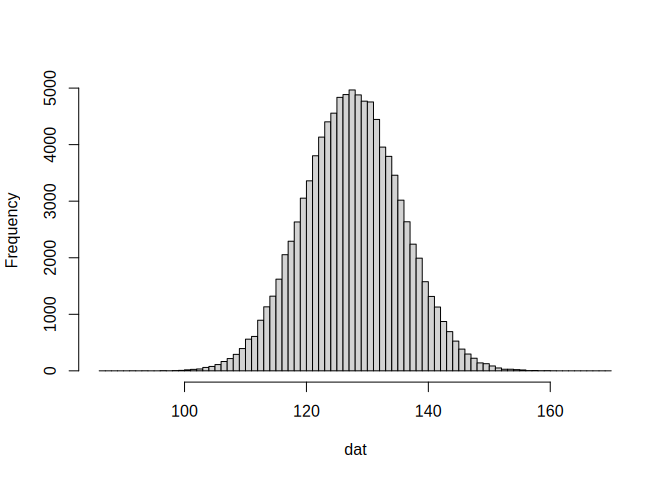
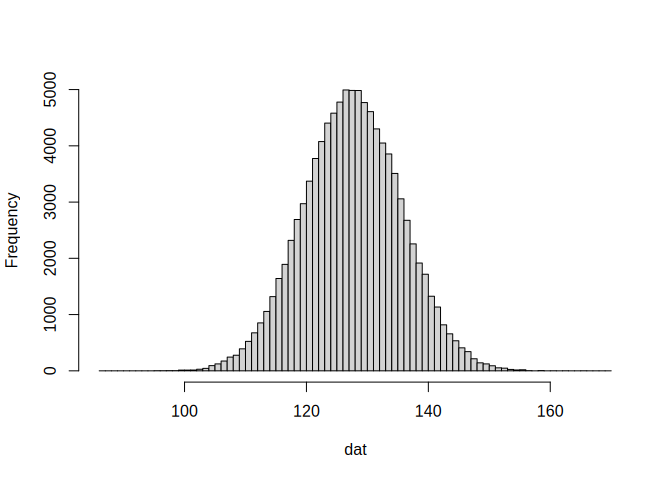
Update mixing algorithm to mix32 instead of a modified mix64.

diff --git a/src/ironseed.c b/src/ironseed.c
@@ -91,10 +91,12 @@ static inline uint64_t init_hash4o_coef(void) { return PRIME_C; }
 
 static inline uint64_t hash4o_coef(uint64_t *m) { return *m += PRIME_D; }
 
+// Adapted from mix32 of Java's SplittableRandom algorithm
+// This is variant 4 of Stafford's mixing algorithms.
+// http://zimbry.blogspot.com/2011/09/better-bit-mixing-improving-on.html
 static inline uint32_t finalmix(uint64_t u) {
-  // Final mixing adapted from splitmix64
-  u = (u ^ (u >> 30)) * 0xbf58476d1ce4e5b9;
-  u = (u ^ (u >> 27)) * 0x94d049bb133111eb;
+  u = (u ^ (u >> 33)) * 0x62a9d9ed799705f5;
+  u = (u ^ (u >> 28)) * 0xcb24d0a5c88c35b3;
   return u >> 32;
 }
 

diff --git a/tools/ironseed-bin/ironseed-bin.c b/tools/ironseed-bin/ironseed-bin.c
@@ -62,10 +62,12 @@ static inline uint64_t init_hash4o_coef(void) { return PRIME_C; }
 
 static inline uint64_t hash4o_coef(uint64_t *m) { return *m += PRIME_D; }
 
+// Adapted from mix32 of Java's SplittableRandom algorithm
+// This is variant 4 of Stafford's mixing algorithms.
+// http://zimbry.blogspot.com/2011/09/better-bit-mixing-improving-on.html
 static inline uint32_t finalmix(uint64_t u) {
-  // Final mixing adapted from splitmix64
-  u = (u ^ (u >> 30)) * 0xbf58476d1ce4e5b9;
-  u = (u ^ (u >> 27)) * 0x94d049bb133111eb;
+  u = (u ^ (u >> 33)) * 0x62a9d9ed799705f5;
+  u = (u ^ (u >> 28)) * 0xcb24d0a5c88c35b3;
   return u >> 32;
 }
 

diff --git a/README.md b/README.md
@@ -66,10 +66,10 @@ to reproduce the run.
 ``` r
 #!/usr/bin/env -S Rscript --vanilla
 ironseed::ironseed("Experiment", 20251031, 1)
-#> ** Ironseed : Seed RqJqS4g2aXV-nxfGU5xHWaF-2rX8iBiNWuR-jKj5DXzfWbE v0.1.0.9001
+#> ** Ironseed : Seed ZZaisFMror3-ZhLosGqfN3R-8B6PqHJ5hhf-CFFsWhrQvBd v0.1.0.9002
 runif(10)
-#>  [1] 0.27209988 0.05401526 0.51204877 0.94806819 0.96840822 0.53816970
-#>  [7] 0.37497052 0.42676681 0.18194411 0.26769675
+#>  [1] 0.89705422 0.04560317 0.83527653 0.45908361 0.12400794 0.60115341
+#>  [7] 0.12773858 0.91012865 0.53115788 0.22756973
 ```
 
 If your script is intended to be called multiple times as part of a
@@ -79,10 +79,10 @@ large study, you can also seed based on the command line arguments.
 #!/usr/bin/env -S Rscript --vanilla
 args <- commandArgs(trailingOnly = TRUE)
 ironseed::ironseed("A Simulation Script 1", args)
-#> ** Ironseed : Seed CoKoWKuHqgD-yVtzDkJ4pCh-jAJn3zBpj1h-yFM1Cu3nbNK v0.1.0.9001
+#> ** Ironseed : Seed 8cqtTGB8vrS-WYjGZ3isTH2-pHzMHbEDV38-PBfFNYcUjEG v0.1.0.9002
 runif(10)
-#>  [1] 0.11870746 0.78272032 0.68515287 0.40175965 0.49900522 0.37332730
-#>  [7] 0.82011979 0.03284861 0.48356992 0.90040306
+#>  [1] 0.84992808 0.64469355 0.89756643 0.19331885 0.23951235 0.62736989
+#>  [7] 0.18903081 0.11728875 0.98641615 0.04123155
 ```
 
 Specific command line arguments can also be used. For large, nested
@@ -93,10 +93,10 @@ seeds. Ironseed makes this easy to accomplish.
 #!/usr/bin/env -S Rscript --vanilla
 args <- commandArgs(trailingOnly = TRUE)
 ironseed::ironseed("A Simulation Script 2", args[grepl("--seed=", args)])
-#> ** Ironseed : Seed 16BWCcc5nZf-juvzXi5XCpS-5K7kRnicohf-xVNeKUA6MZF v0.1.0.9001
+#> ** Ironseed : Seed CP5fKZWMYsB-ERVXpk3k8xd-6j18poR5Sgc-eKWXg7VJFPd v0.1.0.9002
 runif(10)
-#>  [1] 0.5747996 0.3383344 0.7703499 0.9094458 0.3666125 0.2713542 0.8344397
-#>  [8] 0.6304827 0.6447120 0.9894029
+#>  [1] 0.89075876 0.48203428 0.08680504 0.51708634 0.04348393 0.50693477
+#>  [7] 0.38465350 0.64060167 0.26286422 0.54601453
 ```
 
 ### Automatic Seeding
@@ -108,16 +108,16 @@ occurs if no data is passed to `ironseed()`.
 ``` r
 #!/usr/bin/env -S Rscript --vanilla
 ironseed::ironseed()
-#> ** Ironseed : Seed ZZ41wa2rBeM-Z3h6bgLrpz8-oJnrLDQpNLb-yjUPa7Tbh32 v0.1.0.9001
+#> ** Ironseed : Seed AfaPdekUCoA-fhRoazvKnTc-EnqCD7wKNfB-2mdwgP1zuP5 v0.1.0.9002
 runif(10)
-#>  [1] 0.51692160 0.83086269 0.42096813 0.95326117 0.68974016 0.55060962
-#>  [7] 0.12255819 0.07522713 0.77790200 0.89292403
+#>  [1] 0.81606451 0.01563447 0.02842008 0.92643311 0.93597330 0.70551466
+#>  [7] 0.75512336 0.25908712 0.98250676 0.03561528
 
 # Since RNG initializing has occurred, the next call will simply
 # return the ironseed used in previous seeding.
 fe <- ironseed::ironseed()
 fe
-#> Ironseed: ZZ41wa2rBeM-Z3h6bgLrpz8-oJnrLDQpNLb-yjUPa7Tbh32
+#> Ironseed: AfaPdekUCoA-fhRoazvKnTc-EnqCD7wKNfB-2mdwgP1zuP5
 ```
 
 Or achieving the same thing with one call. Note that the automatically
@@ -126,12 +126,12 @@ generated seed is different from the previous run.
 ``` r
 #!/usr/bin/env -S Rscript --vanilla
 fe <- ironseed::ironseed()
-#> ** Ironseed : Seed o3oBspjYs84-vTkmYVwdd95-gYs2a7mqHDc-KuxJiazC7yX v0.1.0.9001
+#> ** Ironseed : Seed iENGNd69yVH-ue59xcZc3fF-f4R9qYhESkd-pfWMYxMmFoM v0.1.0.9002
 runif(10)
-#>  [1] 0.9465604 0.4767022 0.9364781 0.2474247 0.0981720 0.5996615 0.6877794
-#>  [8] 0.2495181 0.9621318 0.9867489
+#>  [1] 0.60404956 0.07975961 0.03384779 0.84441315 0.53671970 0.46416535
+#>  [7] 0.10455209 0.33560387 0.43316807 0.27369468
 fe
-#> Ironseed: o3oBspjYs84-vTkmYVwdd95-gYs2a7mqHDc-KuxJiazC7yX
+#> Ironseed: iENGNd69yVH-ue59xcZc3fF-f4R9qYhESkd-pfWMYxMmFoM
 ```
 
 ### Reproducible Code
@@ -143,10 +143,10 @@ used, and the previously generated seed has been logged.
 ``` r
 #!/usr/bin/env -S Rscript --vanilla
 ironseed::ironseed("RW7vjwjeiHF-QG7RYPvrntR-6tGPoi65sVc-N1n5SQi5RH4")
-#> ** Ironseed : Seed RW7vjwjeiHF-QG7RYPvrntR-6tGPoi65sVc-N1n5SQi5RH4 v0.1.0.9001
+#> ** Ironseed : Seed RW7vjwjeiHF-QG7RYPvrntR-6tGPoi65sVc-N1n5SQi5RH4 v0.1.0.9002
 runif(10)
-#>  [1] 0.7912117 0.8591453 0.5992849 0.8067858 0.0786397 0.2018691 0.9127011
-#>  [8] 0.7985957 0.4259903 0.9625653
+#>  [1] 0.05348978 0.02073685 0.08883963 0.94422739 0.36191244 0.25720998
+#>  [7] 0.61729578 0.89536005 0.86046463 0.06095049
 ```
 
 ## Analysis
@@ -185,9 +185,9 @@ dat <- sapply(z, \(a) sum(intToBits(a$x) != intToBits(a$y)))
 
 ``` r
 mean(dat) # expectation: 128
-#> [1] 127.9792
+#> [1] 128.0011
 sd(dat) # expectation: 8
-#> [1] 7.998941
+#> [1] 8.008929
 hist(dat, breaks = 86:170, main = NULL)
 ```
 
@@ -200,9 +200,9 @@ set.seed(20251221)
 z <- replicate(100000, rand_fe_pair(256), simplify = FALSE)
 dat <- sapply(z, \(a) sum(intToBits(a$x) != intToBits(a$y)))
 mean(dat) # expectation: 128
-#> [1] 127.9896
+#> [1] 128.0405
 sd(dat) # expectation: 8
-#> [1] 8.016092
+#> [1] 8.019668
 hist(dat, breaks = 86:170, main = NULL)
 ```
 
